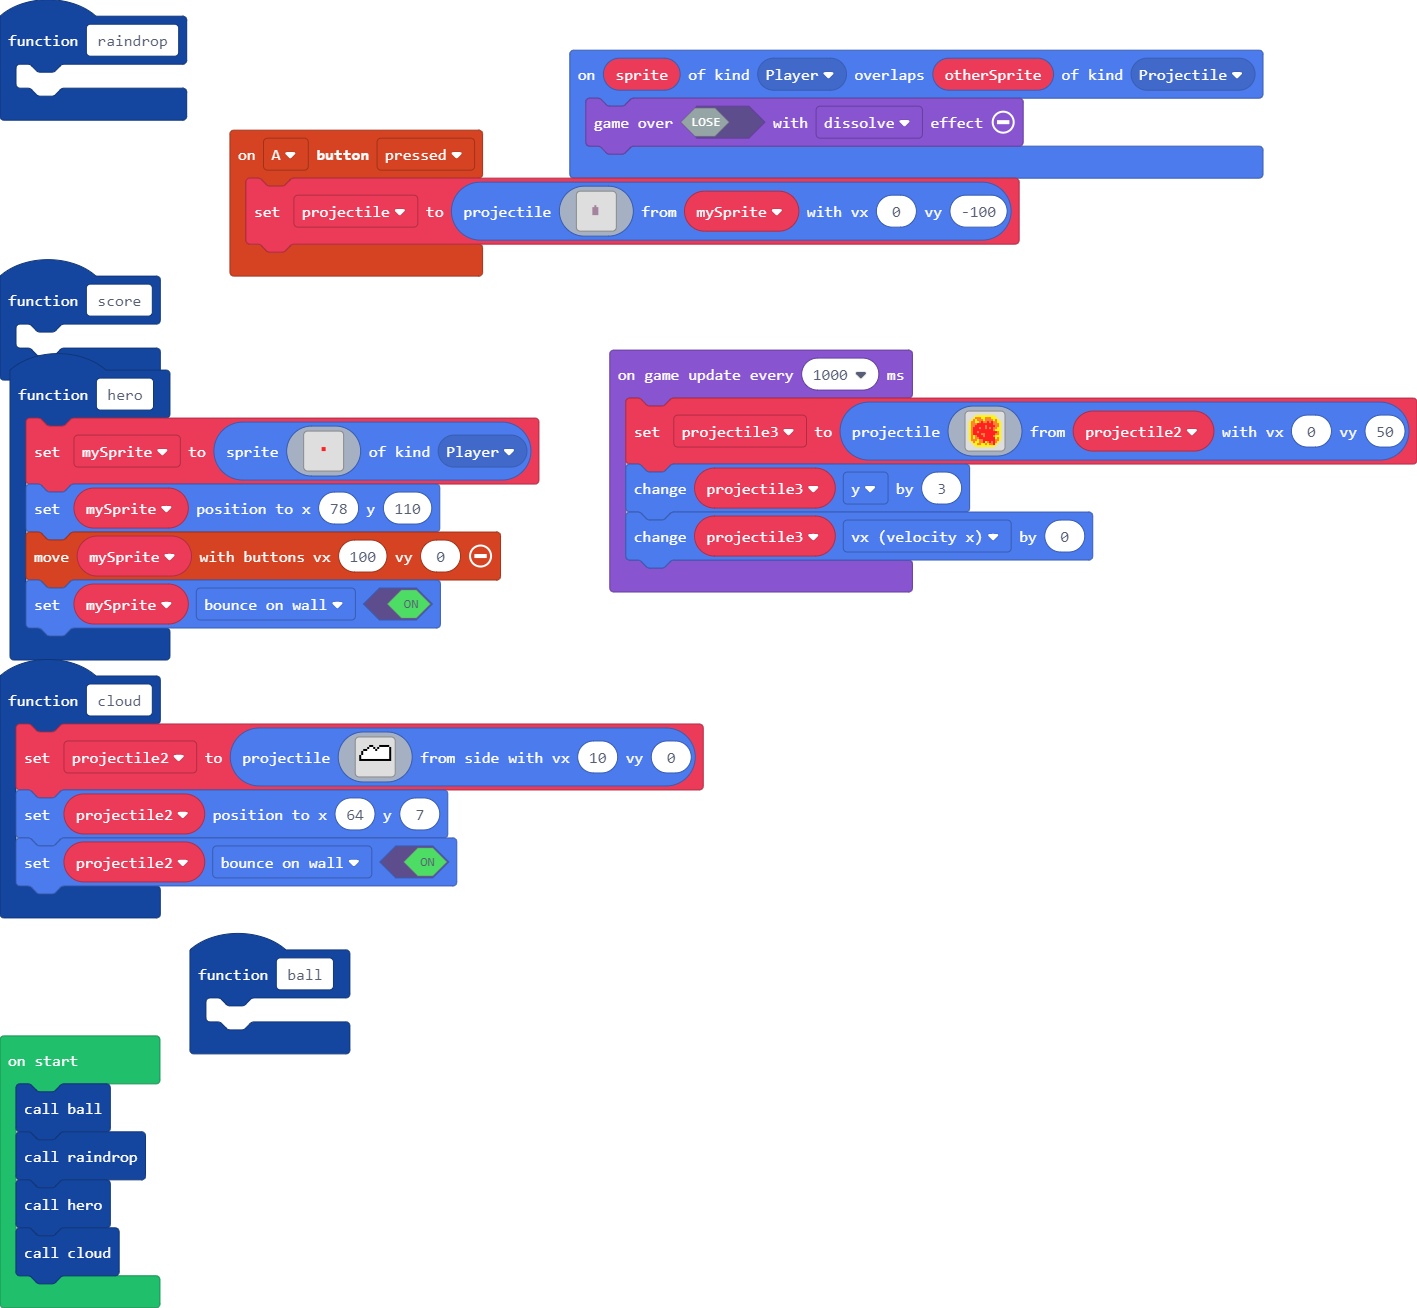
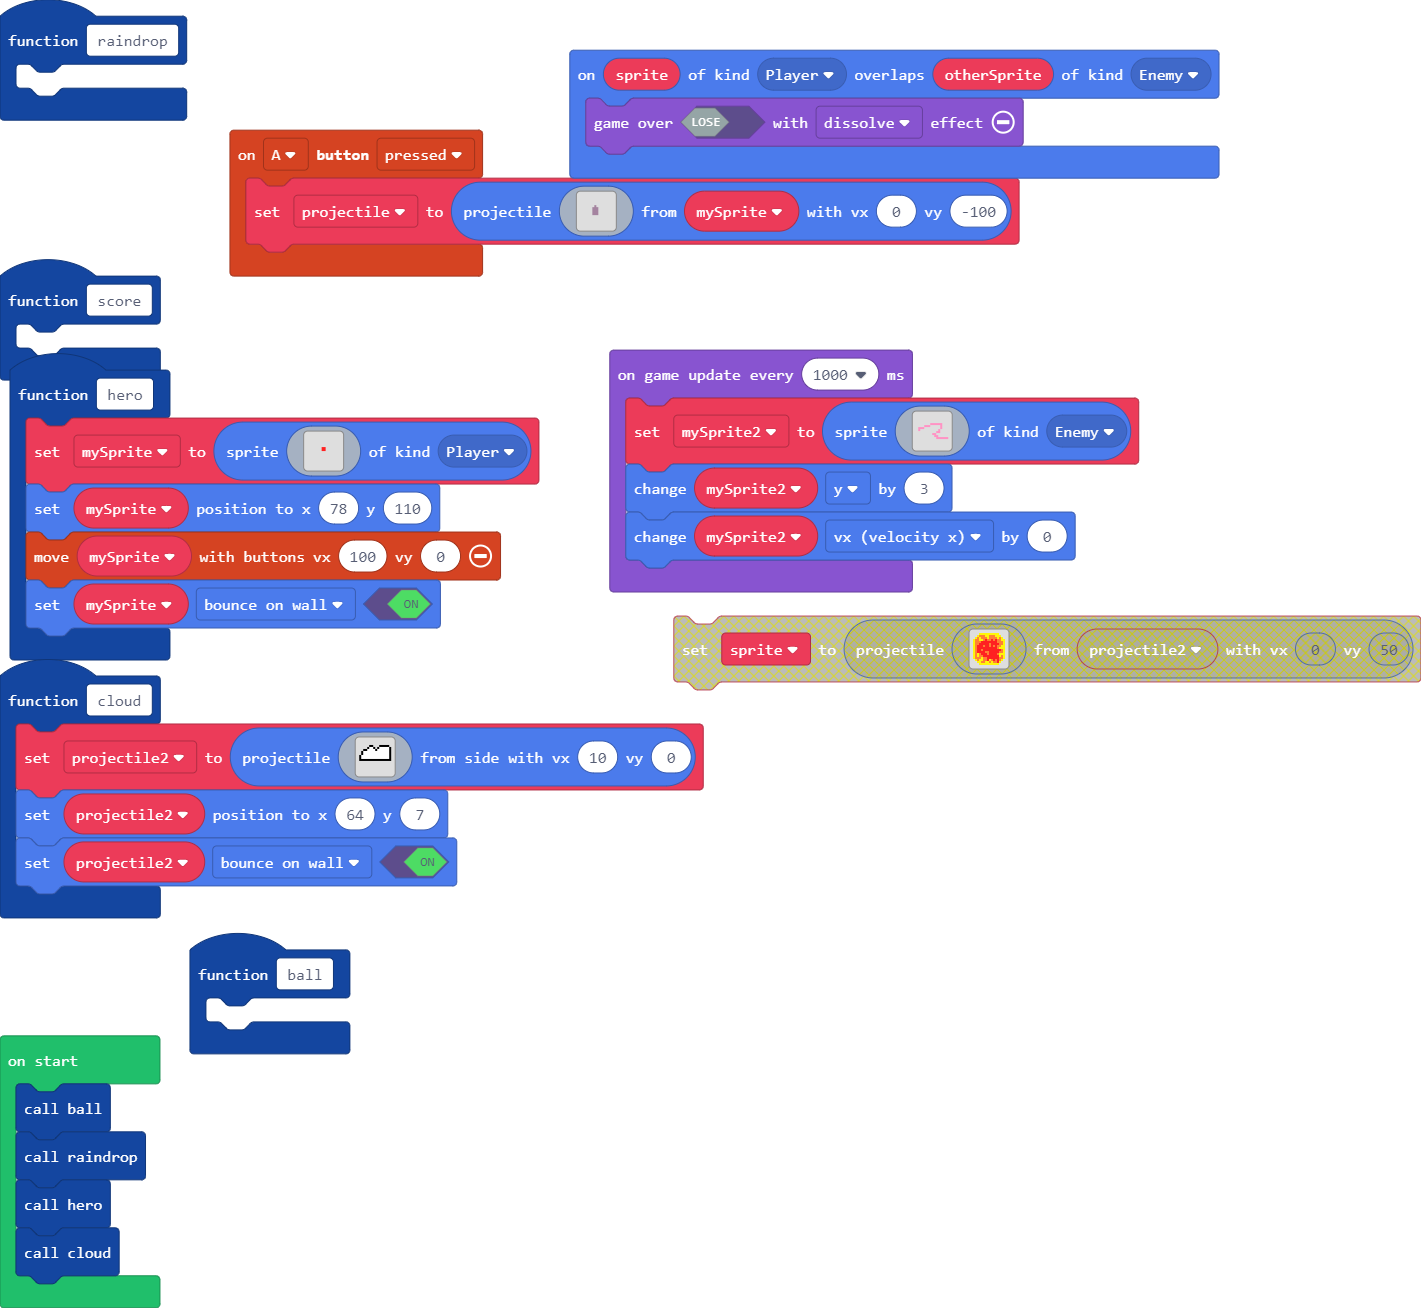
Update main.blocks, main.ts

diff --git a/main.ts b/main.ts
@@ -108,9 +108,6 @@ f f f f f f f f f f f f f f f f
 function score () {
 	
 }
-sprites.onOverlap(SpriteKind.Player, SpriteKind.Projectile, function (sprite, otherSprite) {
-    game.over(false, effects.dissolve)
-})
 controller.A.onEvent(ControllerButtonEvent.Pressed, function () {
     projectile = sprites.createProjectileFromSprite(img`
 . . . . . . . . . . . . . . . . 
@@ -131,13 +128,16 @@ controller.A.onEvent(ControllerButtonEvent.Pressed, function () {
 . . . . . . . . . . . . . . . . 
 `, mySprite, 0, -100)
 })
+sprites.onOverlap(SpriteKind.Player, SpriteKind.Enemy, function (sprite, otherSprite) {
+    game.over(false, effects.dissolve)
+})
 function raindrop () {
 	
 }
 function ball () {
 	
 }
-let projectile3: Sprite = null
+let mySprite2: Sprite = null
 let projectile: Sprite = null
 let projectile2: Sprite = null
 let mySprite: Sprite = null
@@ -146,24 +146,24 @@ raindrop()
 hero()
 cloud()
 game.onUpdateInterval(1000, function () {
-    projectile3 = sprites.createProjectileFromSprite(img`
-. . . 5 5 5 5 5 5 5 5 5 5 . . . 
-. . 5 4 4 4 5 5 4 4 4 5 5 5 . . 
-. 5 4 5 4 4 4 5 4 4 4 4 5 4 5 . 
-5 4 4 5 5 4 2 4 4 2 4 2 4 4 5 5 
-5 4 4 4 2 2 2 2 2 2 2 2 4 4 4 5 
-5 4 4 2 2 2 2 2 4 2 2 2 2 4 4 5 
-5 4 2 2 2 4 2 2 4 2 4 2 4 4 5 5 
-5 4 2 2 2 2 2 2 2 2 2 2 4 5 5 5 
-5 4 2 2 4 2 2 2 2 2 2 2 2 2 4 5 
-5 4 2 2 2 2 4 4 2 2 2 2 2 4 4 5 
-5 4 5 4 2 2 2 4 2 2 2 2 4 5 5 5 
-5 4 5 4 4 2 2 2 2 2 2 2 2 5 4 5 
-5 4 4 4 5 4 4 2 2 2 2 2 2 4 4 5 
-. 5 4 5 5 4 4 2 5 4 2 4 2 4 5 . 
-. . 5 5 4 4 5 5 4 5 4 4 2 5 . . 
-. . . 5 5 5 5 5 5 5 5 5 5 . . . 
-`, projectile2, 0, 50)
-    projectile3.y += 3
-    projectile3.vx += 0
+    mySprite2 = sprites.create(img`
+. . . . . . . . . . . . . . . . 
+. . . . . . . . . . . . . . . . 
+. . . . . . . . . . . . . . . . 
+. . . . . . . . . . . . . . . . 
+. . . . . . . 3 3 3 3 3 3 . . . 
+. . . . 3 3 3 . . . . . 3 . . . 
+. 3 3 3 . . . . . . . . 3 . . . 
+. 3 . . . . . . . . . 3 . . . . 
+. . . . . . . . . . 3 3 . . . . 
+. . . . . . . . 3 3 . . . . . . 
+. . . . . . . . . 3 3 . . . . . 
+. . . . . . . . . . 3 3 3 3 3 3 
+. . . . . . . . . . . . . . . . 
+. . . . . . . . . . . . . . . . 
+. . . . . . . . . . . . . . . . 
+. . . . . . . . . . . . . . . . 
+`, SpriteKind.Enemy)
+    mySprite2.y += 3
+    mySprite2.vx += 0
 })
